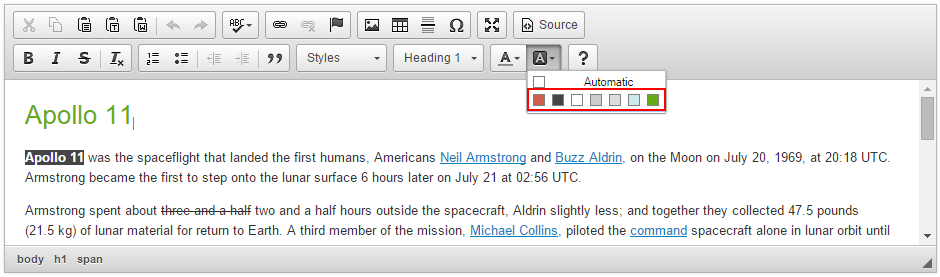
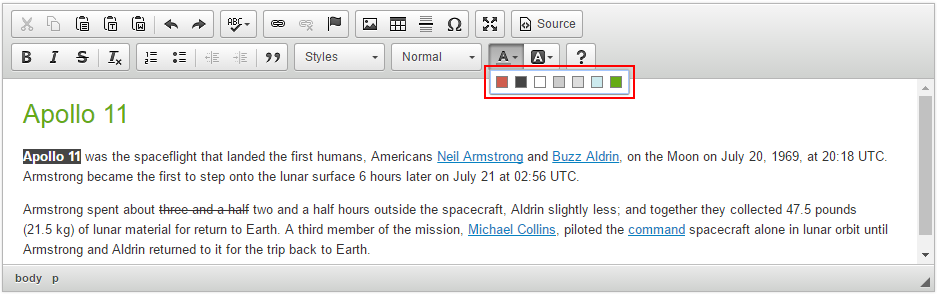
Updated Setting Text and Background Color article.

Changed region(s): [[0.0, 0.0, 1.0, 1.0], [0.0, 0.3466, 0.1547, 0.4621]]

diff --git a/guides/dev/features/colorbutton/README.md b/guides/dev/features/colorbutton/README.md
@@ -29,7 +29,11 @@ Use the CKEDITOR.config.colorButton_colors configuration option to define a cust
 
 	config.colorButton_colors = 'CF5D4E,454545,FFF,CCC,DDD,CCEAEE,66AB16';
 
-This will cause the color list to only contain the seven colors listed above:
+Additionally, since CKEditor 4.5.8 you can also disable the "Automatic" option by setting the CKEDITOR.config.colorButton_enableAutomatic option to `false`.
+
+	config.colorButton_enableAutomatic = false;
+
+These settings will cause the color list to only contain the seven colors listed above, with no "Automatic" option available:
 
 {@img colorbutton_04.png The customized color list}
 
